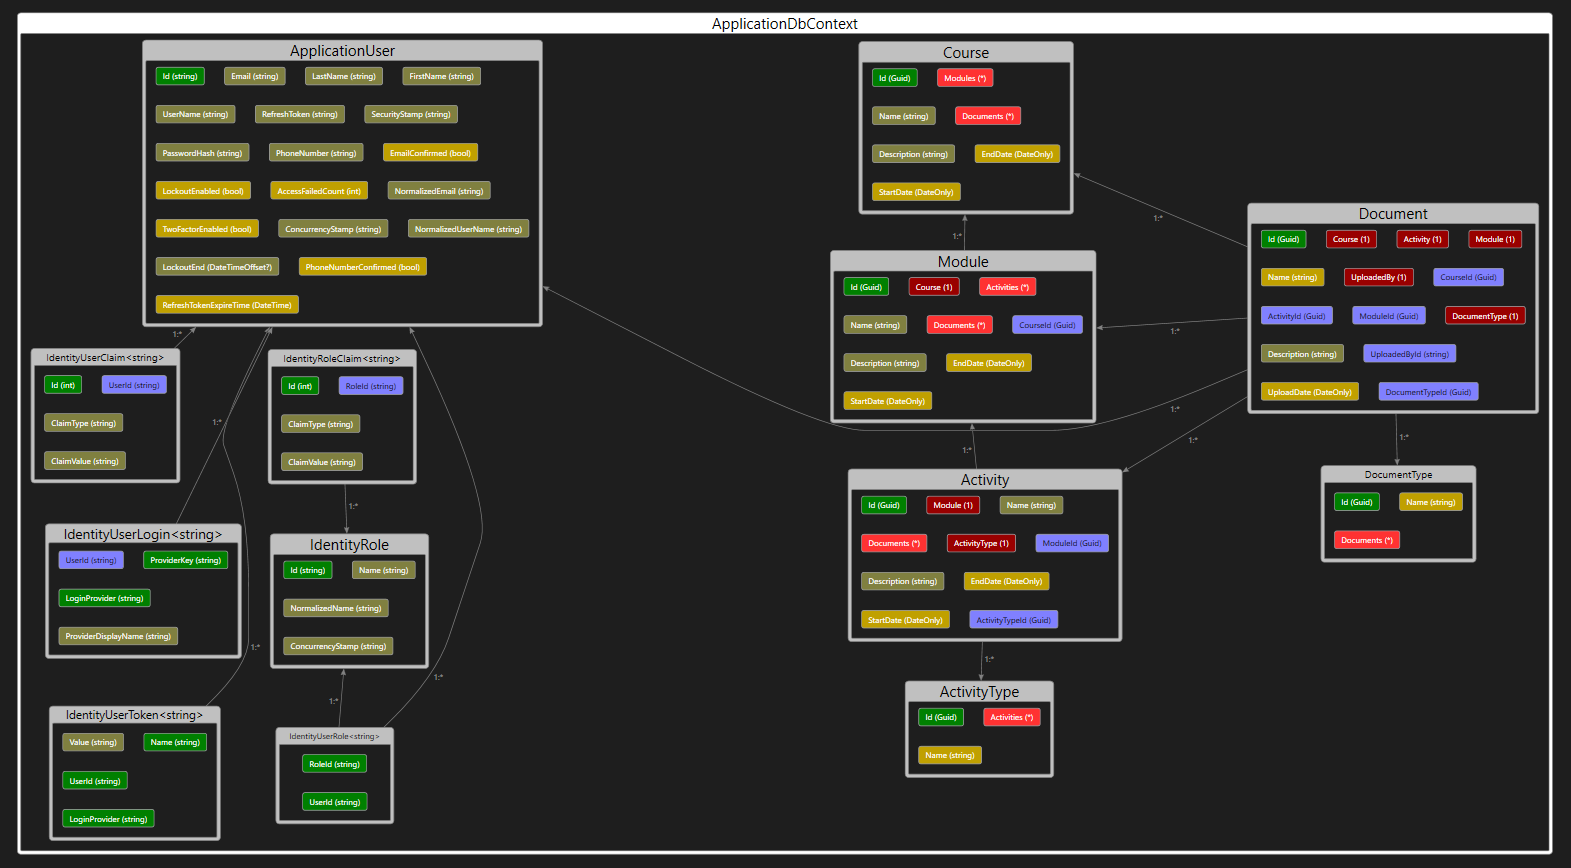
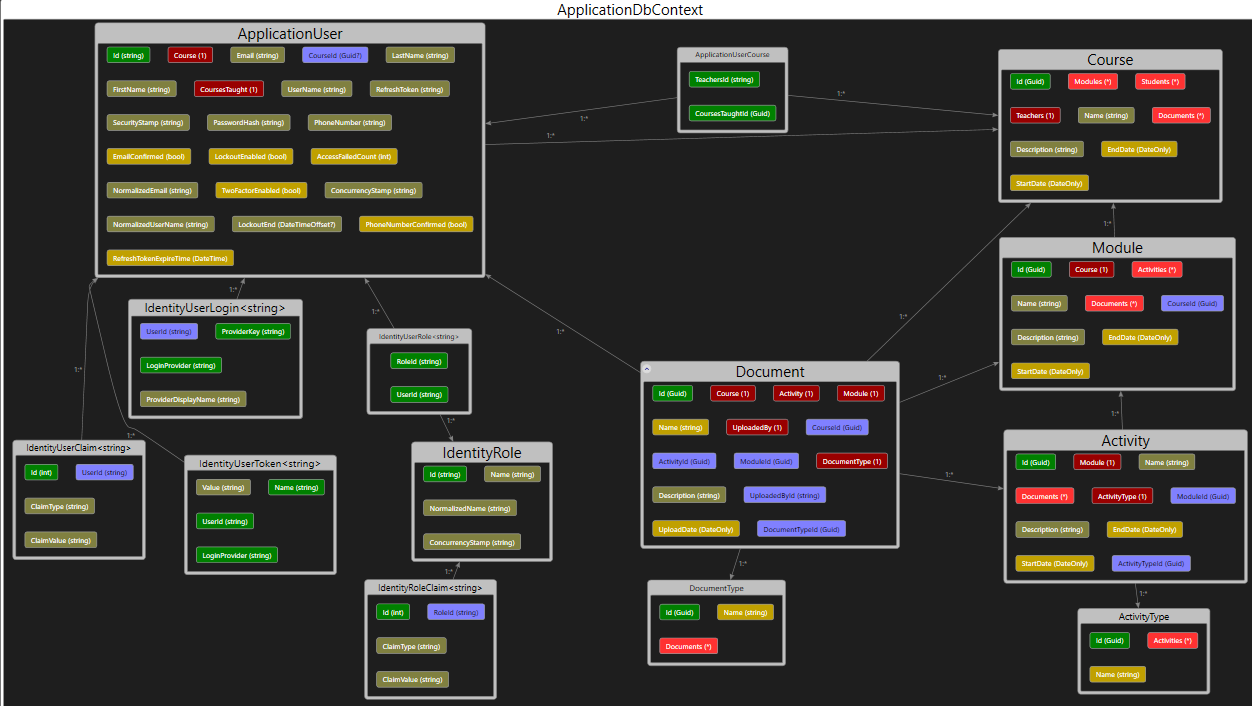
upd EF connections

diff --git a/LMS.Infractructure/Migrations/20250918063332_ConnectedUser.cs b/LMS.Infractructure/Migrations/20250918063332_ConnectedUser.cs
@@ -1,0 +1,82 @@
+using System;
+using Microsoft.EntityFrameworkCore.Migrations;
+
+#nullable disable
+
+namespace Companies.Infractructure.Migrations
+{
+    /// <inheritdoc />
+    public partial class ConnectedUser : Migration
+    {
+        /// <inheritdoc />
+        protected override void Up(MigrationBuilder migrationBuilder)
+        {
+            migrationBuilder.AddColumn<Guid>(
+                name: "CourseId",
+                table: "ApplicationUser",
+                type: "uniqueidentifier",
+                nullable: true);
+
+            migrationBuilder.CreateTable(
+                name: "CourseTeachers",
+                columns: table => new
+                {
+                    CoursesTaughtId = table.Column<Guid>(type: "uniqueidentifier", nullable: false),
+                    TeachersId = table.Column<string>(type: "nvarchar(450)", nullable: false)
+                },
+                constraints: table =>
+                {
+                    table.PrimaryKey("PK_CourseTeachers", x => new { x.CoursesTaughtId, x.TeachersId });
+                    table.ForeignKey(
+                        name: "FK_CourseTeachers_ApplicationUser_TeachersId",
+                        column: x => x.TeachersId,
+                        principalTable: "ApplicationUser",
+                        principalColumn: "Id",
+                        onDelete: ReferentialAction.Cascade);
+                    table.ForeignKey(
+                        name: "FK_CourseTeachers_Courses_CoursesTaughtId",
+                        column: x => x.CoursesTaughtId,
+                        principalTable: "Courses",
+                        principalColumn: "Id",
+                        onDelete: ReferentialAction.Cascade);
+                });
+
+            migrationBuilder.CreateIndex(
+                name: "IX_ApplicationUser_CourseId",
+                table: "ApplicationUser",
+                column: "CourseId");
+
+            migrationBuilder.CreateIndex(
+                name: "IX_CourseTeachers_TeachersId",
+                table: "CourseTeachers",
+                column: "TeachersId");
+
+            migrationBuilder.AddForeignKey(
+                name: "FK_ApplicationUser_Courses_CourseId",
+                table: "ApplicationUser",
+                column: "CourseId",
+                principalTable: "Courses",
+                principalColumn: "Id",
+                onDelete: ReferentialAction.Restrict);
+        }
+
+        /// <inheritdoc />
+        protected override void Down(MigrationBuilder migrationBuilder)
+        {
+            migrationBuilder.DropForeignKey(
+                name: "FK_ApplicationUser_Courses_CourseId",
+                table: "ApplicationUser");
+
+            migrationBuilder.DropTable(
+                name: "CourseTeachers");
+
+            migrationBuilder.DropIndex(
+                name: "IX_ApplicationUser_CourseId",
+                table: "ApplicationUser");
+
+            migrationBuilder.DropColumn(
+                name: "CourseId",
+                table: "ApplicationUser");
+        }
+    }
+}

diff --git a/LMS.Infractructure/Migrations/20250918063332_ConnectedUser.Designer.cs b/LMS.Infractructure/Migrations/20250918063332_ConnectedUser.Designer.cs
@@ -4,6 +4,7 @@ using LMS.Infractructure.Data;
 using Microsoft.EntityFrameworkCore;
 using Microsoft.EntityFrameworkCore.Infrastructure;
 using Microsoft.EntityFrameworkCore.Metadata;
+using Microsoft.EntityFrameworkCore.Migrations;
 using Microsoft.EntityFrameworkCore.Storage.ValueConversion;
 
 #nullable disable
@@ -11,9 +12,11 @@ using Microsoft.EntityFrameworkCore.Storage.ValueConversion;
 namespace Companies.Infractructure.Migrations
 {
     [DbContext(typeof(ApplicationDbContext))]
-    partial class ApplicationDbContextModelSnapshot : ModelSnapshot
+    [Migration("20250918063332_ConnectedUser")]
+    partial class ConnectedUser
     {
-        protected override void BuildModel(ModelBuilder modelBuilder)
+        /// <inheritdoc />
+        protected override void BuildTargetModel(ModelBuilder modelBuilder)
         {
 #pragma warning disable 612, 618
             modelBuilder

diff --git a/LMS.Infractructure/Data/Configurations/CourseConfiguration.cs b/LMS.Infractructure/Data/Configurations/CourseConfiguration.cs
@@ -18,5 +18,17 @@ public class CourseConfiguration: IEntityTypeConfiguration<Course>
         builder.HasMany(c => c.Documents)
                .WithOne(d => d.Course)
                .HasForeignKey(d => d.CourseId);
+
+        builder.HasMany(c => c.Students)
+               .WithOne(s => s.Course)
+               .HasForeignKey(s => s.CourseId)
+               .OnDelete(DeleteBehavior.Restrict);
+
+        builder.HasMany(c => c.Teachers)
+               .WithMany(t => t.CoursesTaught) 
+               .UsingEntity(j => j.ToTable("CourseTeachers")); 
+
+
+
     }
 }

diff --git a/Domain.Models/Entities/Course.cs b/Domain.Models/Entities/Course.cs
@@ -14,5 +14,10 @@ public class Course: Entity
 
     public ICollection<Module> Modules { get; set; } = new List<Module>();
     public ICollection<Document> Documents { get; set; } = new List<Document>();
+    public ICollection<ApplicationUser> Students { get; set; } = new List<ApplicationUser>();
+    public ICollection<ApplicationUser> Teachers { get; set; } = new List<ApplicationUser>();
+
+
+
 
 }

diff --git a/Domain.Models/Entities/ApplicationUser.cs b/Domain.Models/Entities/ApplicationUser.cs
@@ -8,4 +8,8 @@ public class ApplicationUser : IdentityUser
     public DateTime RefreshTokenExpireTime { get; set; }
     public string? FirstName { get; set; } = null!;
     public string? LastName { get; set; } = null!;
+    public Guid? CourseId { get; set; }
+    public Course? Course { get; set; }
+    public ICollection<Course> CoursesTaught { get; set; } = new List<Course>();
+
 }

diff --git a/LMS.Infractructure/Data/Configurations/ApplicationUserConfigurations.cs b/LMS.Infractructure/Data/Configurations/ApplicationUserConfigurations.cs
@@ -10,5 +10,10 @@ public class ApplicationUserConfigurations : IEntityTypeConfiguration<Applicatio
     {
         builder.ToTable("ApplicationUser");
         //Add more configurations here
+
+
+        builder.HasOne(u => u.Course)
+               .WithMany(c => c.Students)
+               .HasForeignKey(u => u.CourseId);
     }
 }
